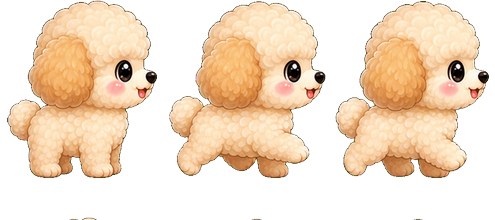
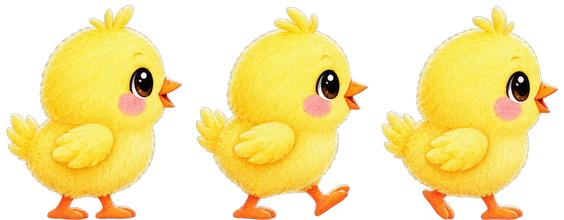
Replace the chick walk sheet that was actually a poodle
hero-chick-walk.png 이 푸들(라떼) 그림이었다 — 피치 병아리를 고르면 서
있거나 걸을 때 강아지로 보이는 사용자 보고 버그. 공격 포즈·초상화는 정상.
오염은 원본(jump-climber의 "피치 병아리 워크 스프라이트 시트.png"가 이미
푸들)에서 전파된 것.

imagegen 재생성: 마젠타 크로마키 요청은 두 번 연속 검정+후광으로 실패,
"3x3 그리드 + 방송용 그린스크린 #00FF00 + 글로우 금지" 프롬프트가 성공.
가운데 줄(옆모습 3프레임) 추출 → 인접 행 조각 제거 → 공통 스케일·바닥
정렬로 220px 시트 재조립. frameW 165 → 188.

diff --git a/games/mallang-idle/data/characters.js b/games/mallang-idle/data/characters.js
@@ -31,7 +31,7 @@
     },
     {
       id: 'chick', name: '피치 병아리', unlockStage: 5,
-      walk: 'assets/hero-chick-walk.png', frameW: 165,
+      walk: 'assets/hero-chick-walk.png', frameW: 188,
       portrait: 'assets/portrait-chick.png',
       atk: 'assets/atk-chick.png', atkW: 301,
       skill: { key: 'aspdMul', value: 0.18 },
